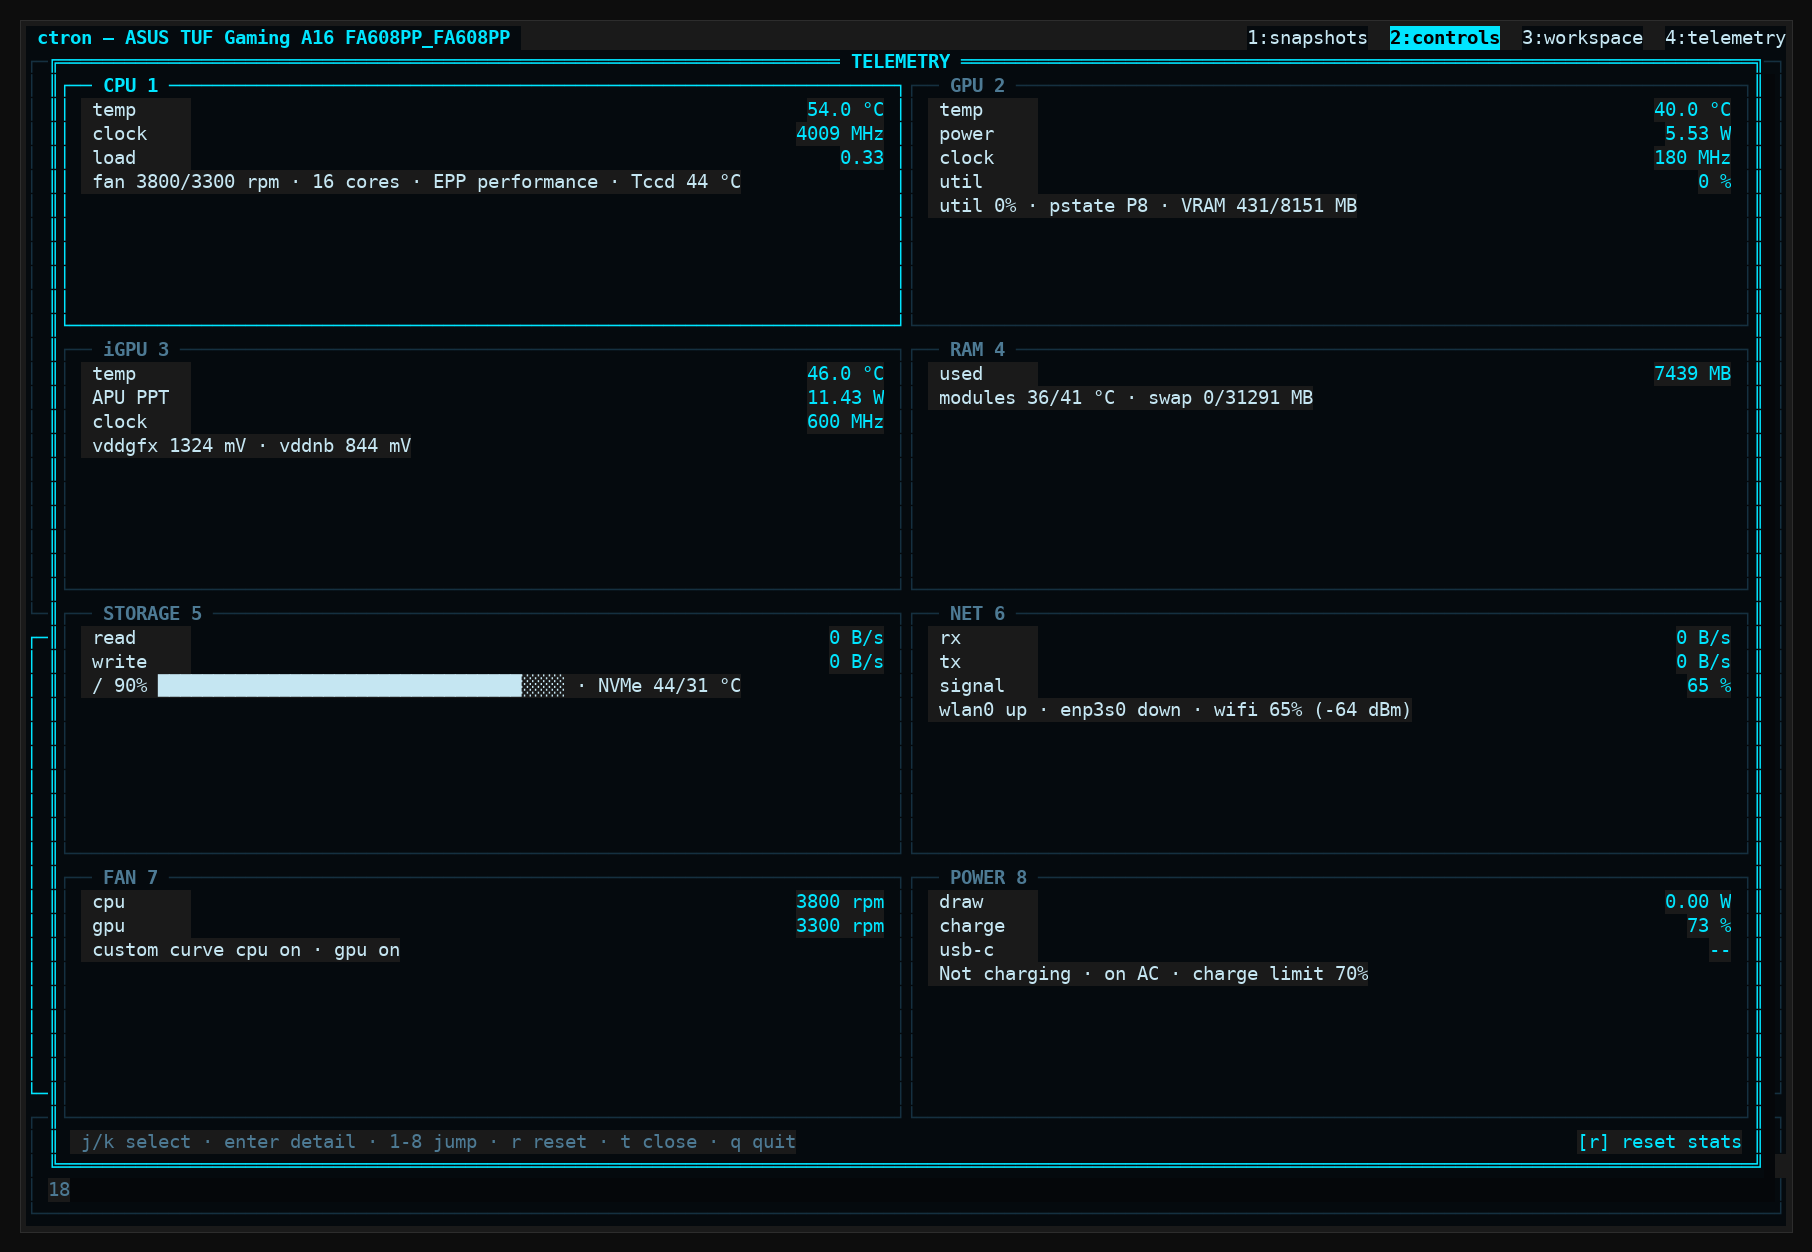
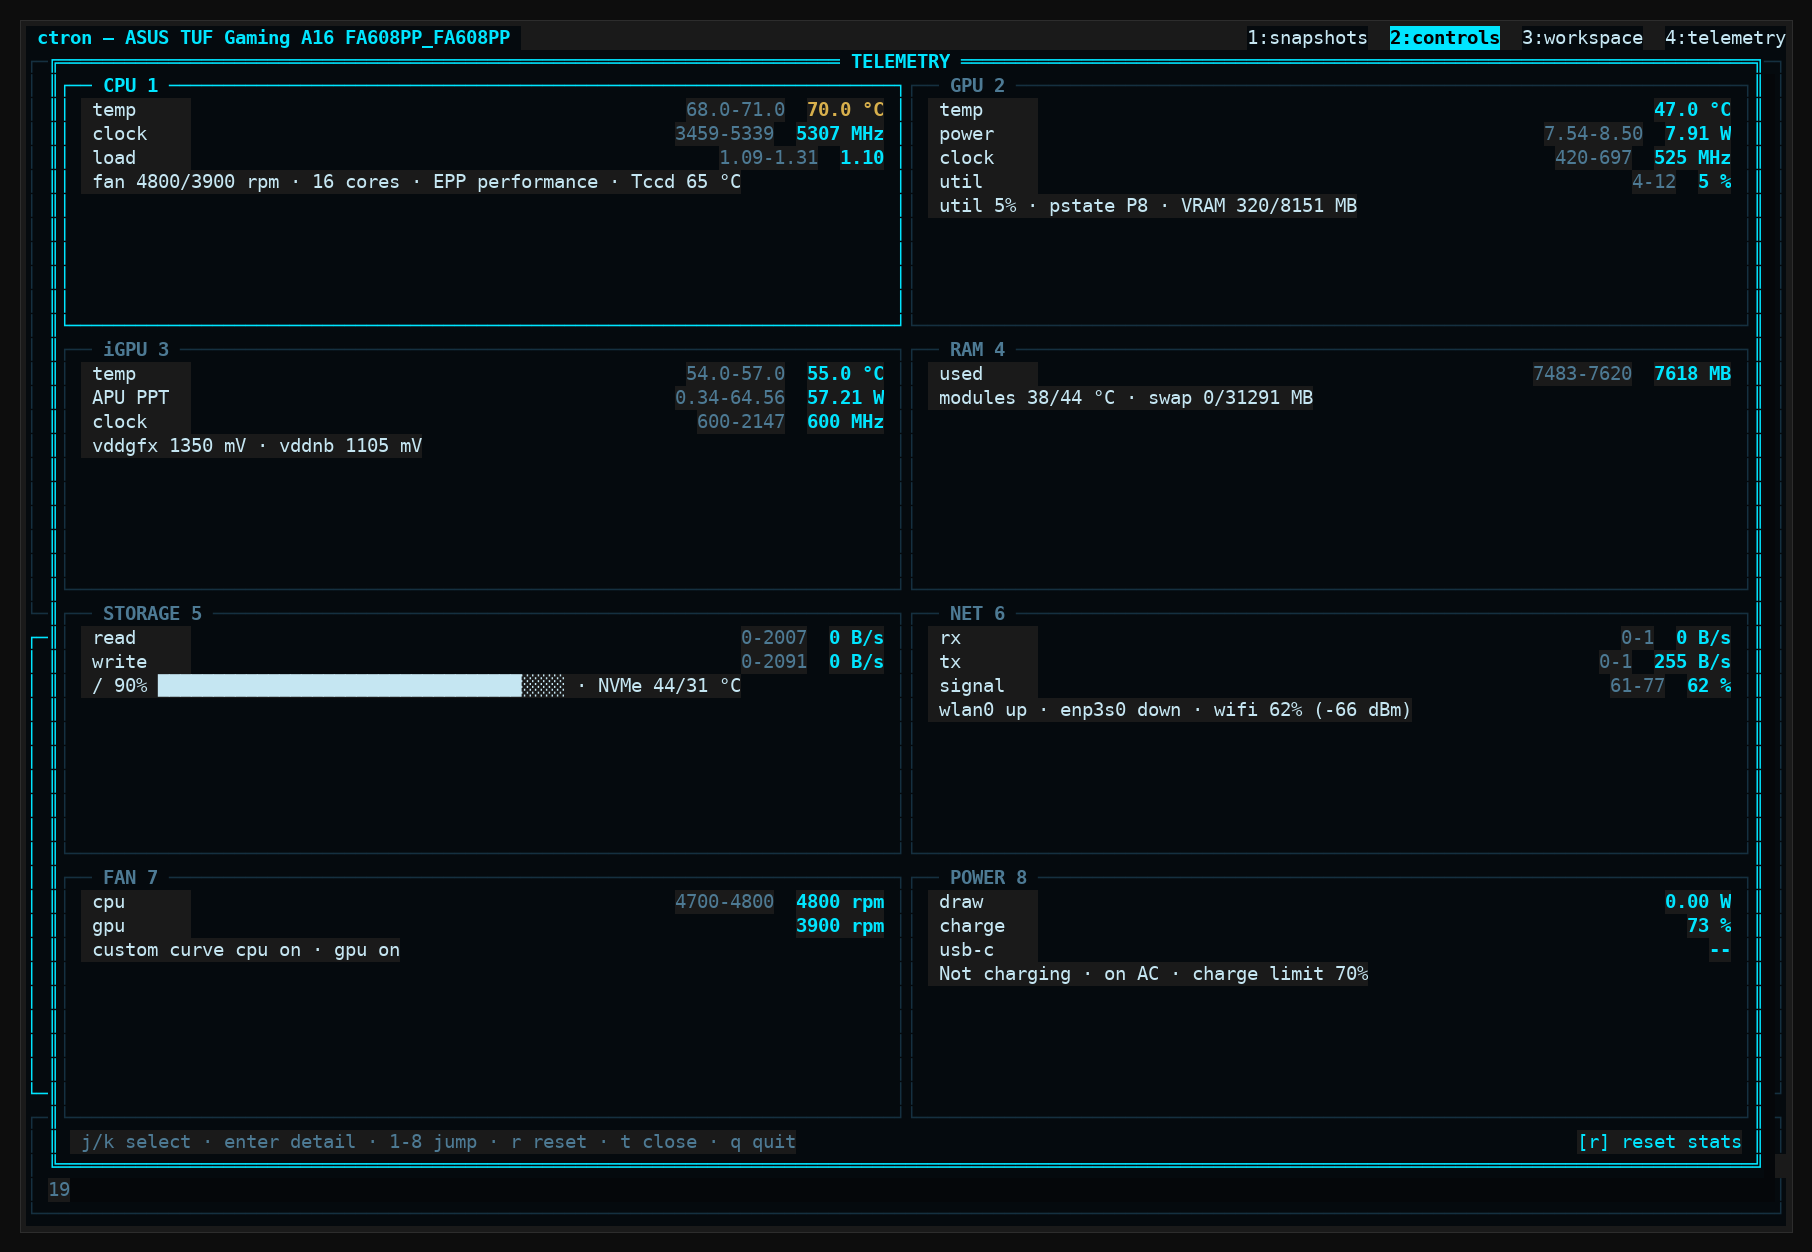
telem: readability - spaced detail report + grid min-max ranges - user: the detail text read grid-sized/cramped/complex ('cok sikisik cok kucuk ve karmasik'), wanted spacing, bigger-feeling text and a slightly more detailed grid (true font size is the terminal's zoom; the app can only re-layout): de

diff --git a/src/ui/panel_telem_full.c b/src/ui/panel_telem_full.c
@@ -16,8 +16,9 @@
  * which ui.c calls after every fast refresh.
  *
  * Two modes: the section grid (j/k cursor, enter/1-8 opens) and one
- * section's detail page — a numeric now/min/avg/max table over the same
- * rings plus info lines from the live hw snapshot. */
+ * section's detail page — a spaced numeric report (now/min/avg/max,
+ * bold zone-coloured "now", separators around the live + legend
+ * blocks; packed layout on short terminals) over the same rings. */
 
 typedef void (*telem_sec_fn)(struct ncplane *n, const rect_t *r);
 
@@ -217,7 +218,9 @@ static void fmt_num(char *out, size_t n, unit_t u, double v)
     switch (u) {
     case U_TEMP: snprintf(out, n, "%.1f", v); break;
     case U_MHZ:  snprintf(out, n, "%.0f", v); break;
-    case U_W:    snprintf(out, n, "%.2f", v); break;
+    /* watts, not the stored mW — "8.11" beside "8.11 W" reads, raw
+     * milliwatts next to a watt value did not */
+    case U_W:    snprintf(out, n, "%.2f", v / 1000.0); break;
     case U_PCT:  snprintf(out, n, "%.0f", v); break;
     case U_LOAD: snprintf(out, n, "%.2f", v); break;
     case U_MBPS: snprintf(out, n, "%.0f", v / 1024.0); break; /* kB/s */
@@ -226,15 +229,37 @@ static void fmt_num(char *out, size_t n, unit_t u, double v)
     }
 }
 
-/* one numeric row: label - now (unit, zone colour) - min avg max */
-static void stat_row(struct ncplane *n, int x, int y, int w,
-                     const chartdef_t *cd, int sidx, const char *lab)
+/* column right-edges for the detail table: label zone left, then
+ * now/min/avg/max spread evenly across the content width (the detail
+ * page is nearly fullscreen — use it, a packed left table reads
+ * "grid-sized"). Capped so ultrawide terminals do not detach the
+ * columns from the label. */
+static void dt_cols(int x, int w, int ce[4])
+{
+    int col = (w - 14) / 4;
+    if (col > 40)
+        col = 40;
+    if (col < 12)
+        col = 12;
+    if (12 + 4 * col > w)
+        col = (w - 12) / 4;
+    if (col < 8)
+        col = 8;
+    for (int i = 0; i < 4; i++)
+        ce[i] = x + 12 + (i + 1) * col;
+}
+
+/* one numeric row: upper-case label left, the unit-carrying "now"
+ * BOLD in its zone colour, min/avg/max spread to the right */
+static void stat_row(struct ncplane *n, int x, int y,
+                     const chartdef_t *cd, int sidx, const char *lab,
+                     const int ce[4])
 {
     const palette_t *pal = ui_palette(g_prefs.theme);
     double last = telem_last(sidx), mn, mx;
     telem_minmax(sidx, &mn, &mx);
     double av = telem_avg(sidx);
-    char now[40], a[24], b[24], c2[24], num[160], labn[24];
+    char now[40], a[24], b[24], c2[24], labn[16];
     fmt_val(now, sizeof now, cd->u, last);
     if (cd->u == U_MBPS && mx >= 1024.0 * 1024.0) { /* row scale MB/s */
         snprintf(a, sizeof a, "%.1f", mn / 1048576.0);
@@ -245,16 +270,45 @@ static void stat_row(struct ncplane *n, int x, int y, int w,
         fmt_num(b, sizeof b, cd->u, av);
         fmt_num(c2, sizeof c2, cd->u, mx);
     }
-    snprintf(labn, sizeof labn, " %-10s", lab);
+    int li = 0;
+    for (const char *p = lab; p && *p && li < 10; p++)
+        labn[li++] = (*p >= 'a' && *p <= 'z')
+                         ? (char)(*p - 'a' + 'A') : *p; /* ASCII-only:
+                         toupper() is locale-aware (tr_TR: i->İ) */
+    labn[li] = '\0';
     ui_putln(n, x, y, 12, labn, pal->text, false);
-    snprintf(num, sizeof num, "%14s %10s %10s %10s", now, a, b, c2);
-    ui_putln(n, x + 11, y, w - 11, num,
-             zone_color(cd->zone, last, pal), false);
+    char *cols[4] = { now, a, b, c2 };
+    for (int i = 0; i < 4; i++) {
+        int vc = utf_cells(cols[i]);
+        int cx = ce[i] - vc;
+        if (cx < x + 12)
+            cx = x + 12;
+        ui_putln(n, cx, y, vc + 1, cols[i],
+                 i == 0 ? zone_color(cd->zone, last, pal) : pal->text,
+                 i == 0);
+    }
 }
 
-/* detail page: a plain NUMERIC table (user request — no charts):
- * one row per series (pairs two), now/min/avg/max over the 60 s
- * ring, the live info lines, then the per-series desc lines. */
+/* "── tag ────..." across the content width: groups the live info
+ * block and the legend block so mixed lines stop reading as data */
+static void dt_sep(struct ncplane *n, int x, int y, int w, const char *tag)
+{
+    const palette_t *pal = ui_palette(g_prefs.theme);
+    char s[512];
+    int off = snprintf(s, sizeof s, "── %s ", tag);
+    while (off > 0 && (size_t)off + 3 < sizeof s && utf_cells(s) < w - 1) {
+        memcpy(s + off, "─", 3);
+        off += 3;
+        s[off] = '\0';
+    }
+    ui_putln(n, x, y, w, s, pal->muted, false);
+}
+
+/* detail page: a numeric now/min/avg/max report (no charts). Roomy
+ * terminals get breathing space — a blank line after every series
+ * (pairs stay together) and section separators around the live info
+ * and legend blocks; short terminals fall back to the packed layout
+ * and then to tail clipping as before. */
 static void detail_table(struct ncplane *n, const rect_t *r,
                          const chartdef_t *cd, int ncd,
                          const char *const *info, int ninfo)
@@ -262,37 +316,80 @@ static void detail_table(struct ncplane *n, const rect_t *r,
     const palette_t *pal = ui_palette(g_prefs.theme);
     int x = r->x + 2, w = r->w - 4;
     int avail = r->h - 2;
-    if (avail < 1)
+    if (avail < 1 || w < 30)
         return;
+    int ce[4];
+    dt_cols(x, w, ce);
+
+    int halves = 0;
+    for (int i = 0; i < ncd; i++)
+        halves += cd[i].sidx2 >= 0 ? 2 : 1;
+    int roomy_n = 1 + 1 + halves + ncd + (ninfo > 0 ? 1 : 0) + ninfo +
+                  1 + (ncd > 0 ? 1 : 0) + ncd;
+    bool roomy = avail >= roomy_n;
+
     int y = r->y + 1;
-    char hdr[96];
-    snprintf(hdr, sizeof hdr, "%11s%14s%10s%10s%10s",
-             "metric", "now", "min", "avg", "max");
-    ui_putln(n, x, y, w, hdr, pal->muted, false);
+    int used = 0;
+    /* header aligned with the value columns */
+    static const char *const hn[4] = { "NOW", "MIN", "AVG", "MAX" };
+    ui_putln(n, x, y, 12, "METRIC", pal->muted, false);
+    for (int i = 0; i < 4; i++)
+        ui_putln(n, ce[i] - (int)strlen(hn[i]), y, 8, hn[i],
+                 pal->muted, false);
     y++;
-    int used = 1;
-    for (int i = 0; i < ncd; i++) {
-        int halves = cd[i].sidx2 >= 0 ? 2 : 1;
-        for (int h = 0; h < halves && used < avail; h++, used++, y++)
-            stat_row(n, x, y, w, &cd[i], h ? cd[i].sidx2 : cd[i].sidx,
-                     h ? cd[i].label2 : cd[i].label);
+    used++;
+    if (roomy) {
+        y++;
+        used++;
     }
-    for (int i = 0; i < ninfo && used < avail; i++, used++, y++)
-        info_line(n, x, y, w, info[i]);
-    for (int i = 0; i < ncd && used < avail; i++, used++, y++) {
-        char d[128];
-        if (cd[i].sidx2 >= 0)
-            snprintf(d, sizeof d, " %s/%s — %s", cd[i].label,
-                     cd[i].label2, cd[i].desc);
-        else
-            snprintf(d, sizeof d, " %s — %s", cd[i].label, cd[i].desc);
-        info_line(n, x, y, w, d);
+    for (int i = 0; i < ncd; i++) {
+        int hh = cd[i].sidx2 >= 0 ? 2 : 1;
+        for (int h = 0; h < hh && used < avail; h++, used++, y++)
+            stat_row(n, x, y, &cd[i], h ? cd[i].sidx2 : cd[i].sidx,
+                     h ? cd[i].label2 : cd[i].label, ce);
+        if (roomy && used < avail) {
+            y++;
+            used++;
+        }
+    }
+    if (ninfo > 0) {
+        if (roomy && used < avail) {
+            dt_sep(n, x, y, w, "live");
+            y++;
+            used++;
+        }
+        for (int i = 0; i < ninfo && used < avail; i++, used++, y++)
+            info_line(n, x, y, w, info[i]);
+    }
+    if (ncd > 0) {
+        if (roomy && used < avail) {
+            y++;
+            used++;
+            if (used < avail) {
+                dt_sep(n, x, y, w, "what these mean");
+                y++;
+                used++;
+            }
+        }
+        for (int i = 0; i < ncd && used < avail; i++, used++, y++) {
+            char d[128];
+            if (cd[i].sidx2 >= 0) {
+                char pair[24];
+                snprintf(pair, sizeof pair, "%s/%s", cd[i].label,
+                         cd[i].label2);
+                snprintf(d, sizeof d, " %-10s %s", pair, cd[i].desc);
+            } else {
+                snprintf(d, sizeof d, " %-10s %s", cd[i].label, cd[i].desc);
+            }
+            info_line(n, x, y, w, d);
+        }
     }
 }
 
 /* grid-box content: NUMBERS ONLY (user request) — label left, value
- * RIGHT-ALIGNED in its zone colour, one row per series (pairs get
- * two), then the info line. */
+ * RIGHT-ALIGNED and BOLD in its zone colour, the window's min–max
+ * range in muted beside it (now + spread at a glance), one row per
+ * series (pairs get two), then the info line. */
 static void grid_rows(struct ncplane *n, const rect_t *r,
                       const chartdef_t *cd, int ncd,
                       const char *const *info, int ninfo)
@@ -315,8 +412,20 @@ static void grid_rows(struct ncplane *n, const rect_t *r,
             int vc = utf_cells(cur);
             snprintf(labn, sizeof labn, " %-9s", lab);
             ui_putln(n, x, y, 11, labn, pal->text, false);
+            double mn, mx;
+            telem_minmax(sidx, &mn, &mx);
+            if (telem_count(sidx) > 1 && mx > mn) {
+                char r0[20], r1[20], rng[44];
+                fmt_num(r0, sizeof r0, cd[i].u, mn);
+                fmt_num(r1, sizeof r1, cd[i].u, mx);
+                snprintf(rng, sizeof rng, "%s-%s", r0, r1);
+                int rc = utf_cells(rng);
+                int rx = x + w - vc - 2 - rc;
+                if (rx > x + 11)
+                    ui_putln(n, rx, y, rc + 1, rng, pal->muted, false);
+            }
             ui_putln(n, x + w - vc, y, vc + 1, cur,
-                     zone_color(cd[i].zone, last, pal), false);
+                     zone_color(cd[i].zone, last, pal), true);
         }
     }
     for (int i = 0; i < ninfo && i < avail - used; i++, y++)

diff --git a/CHANGELOG.md b/CHANGELOG.md
@@ -1,5 +1,34 @@
 # Changelog
 
+## 2026-10-29 — telem readability: spaced detail report + grid min–max ranges
+
+- User: the detail page text read "grid-sized", cramped and complex
+  ("çok sıkışık çok küçük ve karmaşık") — spread it, add breathing
+  room, and detail the grid a bit. (True font size is the terminal's
+  own setting; ctron can only re-layout — done with bold + spread +
+  spacing.)
+- **Detail page → spaced numeric report**: upper-case labels, the
+  unit-carrying "now" value BOLD in its zone colour, min/avg/max
+  spread across the full content width (dt_cols, capped at 40-cell
+  columns on ultrawide); a blank line after every series (pairs stay
+  together); "── live ──" and "── what these mean ──" separators
+  group the info block and the legend so mixed lines stop reading as
+  data. Short terminals fall back to the packed layout (roomy_n vs
+  avail check), then to tail clipping as before.
+- **Grid boxes gain min–max ranges**: each series row shows the
+  window's min–max in muted beside the now value ("temp 69.0-76.0
+  70.0 °C"), and values are now bold; flat/empty windows show no
+  range (honest).
+- Caught in review: fmt_num's U_W branch printed raw milliwatts
+  ("7840.00-8580.00" beside "8.11 W") — now watts, matching the now
+  column everywhere (detail columns + grid ranges); pair legend rows
+  align through the same 10-cell label column ("read/write …"), and
+  the label upper-casing is ASCII-only — toupper() under tr_TR
+  turned "write" into "WRiTE" (locale lesson joins LC_NUMERIC).
+- Verified: 0 warnings, make test, full tuitest, screen dumps at
+  160×50 (roomy) / 100×30 (roomy) / 100×22 (compact) / 60×24
+  (narrow), tui-telem.png re-shot, install in the same breath.
+
 ## 2026-10-29 — telem: wifi signal + load 5/15 + per-mount usage + 'r' stats reset
 
 - Source ideas cherry-picked from the user's standalone hwprobe.py

diff --git a/HANDOFF.md b/HANDOFF.md
@@ -1,6 +1,24 @@
 # Ctron Handoff
 
-Latest session — **2026-10-29 (10th round, hwprobe cherry-picks + stats reset)**
+Latest session — **2026-10-29 (11th round, telemetry readability)**
+**GLM / Kerempkl / FA608PP**: same-day follow-up on the telemetry
+screen — user: detail text read "grid-sized", cramped, complex;
+wanted spacing + bigger-feeling text + a more detailed grid. (Real
+font size = the terminal's own zoom; the app can only re-layout.)
+Detail pages are now a SPACED NUMERIC REPORT: upper-case labels,
+bold zone-coloured "now", min/avg/max spread across the full width
+(capped 40-cell columns), a blank line after every series (pairs
+together), "── live ──" / "── what these mean ──" separators between
+the blocks; short terminals fall back to the packed layout
+(roomy_n/avail), verified at 160×50/100×30 roomy + 100×22/60×24
+compact. Grid rows gained the window min–max range in muted beside
+the bold value ("temp 69.0-76.0  70.0 °C"; flat/empty = no range).
+Review catches: fmt_num U_W printed raw mW beside watt values → now
+watts everywhere; pair legend rows share the 10-cell label column;
+label upper-casing is ASCII-only — toupper() under tr_TR made
+"write" → "WRiTE" (the LC_NUMERIC locale lesson has a sibling).
+Verified: 0 warnings, make test, full tuitest, dumps, tui-telem.png,
+install same breath. Rides the next cut with 9d55a59. Before that **2026-10-29 (10th round, hwprobe cherry-picks + stats reset)**
 **GLM / Kerempkl / FA608PP**: user picked items 1+2+3 from the
 deneme2/hwprobe.py analysis plus a new reset feature — all landed in
 one pass: ① wifi link quality (new pure hw_parse_wireless over
